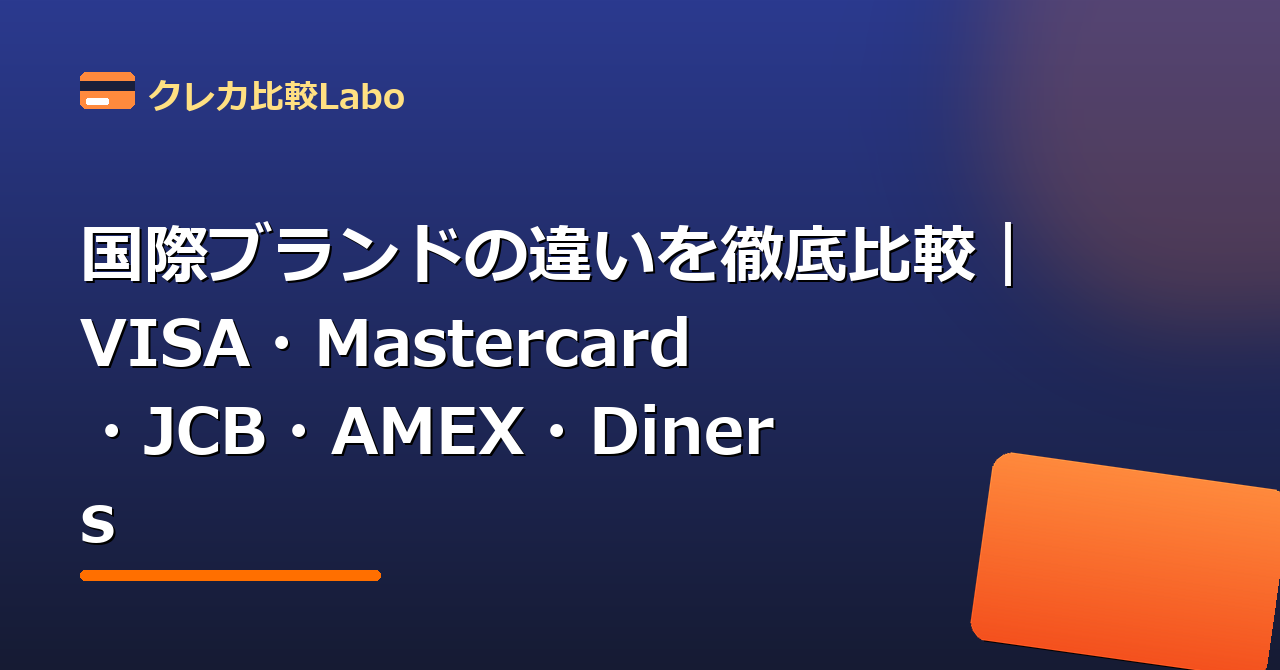
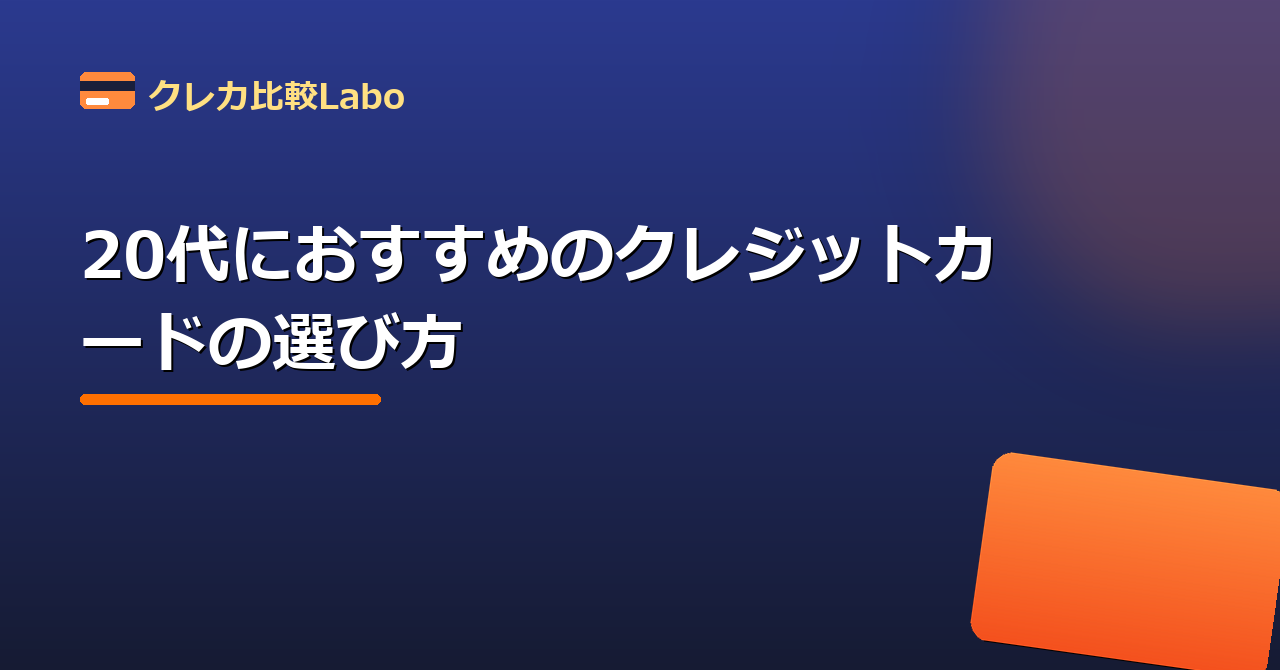
Boost near-ranking articles (nanaco/WAON, Google Pay, JCBW vs Rakuten) + refresh July campaign bonuses

Changed region(s): [[0.0625, 0.3284, 0.8125, 0.6866], [0.0625, 0.7463, 0.3125, 0.8657]]

diff --git a/articles/emoney-charge.html b/articles/emoney-charge.html
@@ -3,20 +3,20 @@
 <head>
   <meta charset="UTF-8">
   <meta name="viewport" content="width=device-width, initial-scale=1.0">
-  <meta name="description" content="nanacoやWAONへのクレジットカードチャージでポイントを貯める方法と対応カードを解説します。">
+  <meta name="description" content="nanaco・WAONへのクレジットカードチャージでポイントを貯める方法と、nanacoとWAONはどちらがお得かの比較を解説します。">
   <title>電子マネー（nanaco・WAON）チャージでポイントを貯める方法｜クレカ比較Labo</title>
   <link rel="canonical" href="https://creca-labo.com/articles/emoney-charge">
   <link rel="icon" href="../favicon.svg" type="image/svg+xml">
   <meta property="og:type" content="website">
   <meta property="og:title" content="電子マネー（nanaco・WAON）チャージでポイントを貯める方法｜クレカ比較Labo">
-  <meta property="og:description" content="nanacoやWAONへのクレジットカードチャージでポイントを貯める方法と対応カードを解説します。">
+  <meta property="og:description" content="nanaco・WAONへのクレジットカードチャージでポイントを貯める方法と、nanacoとWAONはどちらがお得かの比較を解説します。">
   <meta property="og:url" content="https://creca-labo.com/articles/emoney-charge">
   <meta property="og:image" content="https://creca-labo.com/images/ogp/emoney-charge.png">
   <meta property="og:site_name" content="クレカ比較Labo">
   <meta property="og:locale" content="ja_JP">
   <meta name="twitter:card" content="summary_large_image">
   <meta name="twitter:title" content="電子マネー（nanaco・WAON）チャージでポイントを貯める方法｜クレカ比較Labo">
-  <meta name="twitter:description" content="nanacoやWAONへのクレジットカードチャージでポイントを貯める方法と対応カードを解説します。">
+  <meta name="twitter:description" content="nanaco・WAONへのクレジットカードチャージでポイントを貯める方法と、nanacoとWAONはどちらがお得かの比較を解説します。">
   <meta name="twitter:image" content="https://creca-labo.com/images/ogp/emoney-charge.png">
   <link rel="preconnect" href="https://fonts.googleapis.com">
   <link rel="preconnect" href="https://fonts.gstatic.com" crossorigin>
@@ -105,6 +105,9 @@
         <li><a href="#sec-0">チャージでポイントが貯まる</a></li>
         <li><a href="#sec-1">対応カードを選ぶ</a></li>
         <li><a href="#sec-2">税金・公共料金の支払いにも</a></li>
+        <li><a href="#sec-3">nanacoとWAONはどちらがお得？【比較】</a></li>
+        <li><a href="#sec-4">チャージで得する「専用ペア」</a></li>
+        <li><a href="#sec-5">税金・公共料金ならnanaco、まとめ買いならWAON</a></li>
       </ol>
     </nav>
     <h2 id="sec-0">チャージでポイントが貯まる</h2>
@@ -113,6 +116,12 @@
     <p class="review-text">チャージでポイントが付くかどうかはカードによって異なります。nanacoならセブンカード系、WAONなら<a href="../cards/aeon-card.html" class="card-inline-link">イオンカード</a>系など、相性の良いカードを選びましょう。</p>
     <h2 id="sec-2">税金・公共料金の支払いにも</h2>
     <p class="review-text">nanacoは一部の税金や公共料金の支払いに使えます。クレカチャージしたnanacoで支払えば、現金では付かないポイントを貯められてお得です。</p>
+    <h2 id="sec-3">nanacoとWAONはどちらがお得？【比較】</h2>
+    <p class="review-text">結論は「よく行く店」で決まります。nanacoはセブン-イレブン・イトーヨーカドーなどセブン&アイ系、WAONはイオン・まいばすけっとなどイオン系で使いやすい電子マネーです。基本の還元率はどちらも0.5%（200円=1ポイント）で大差はないため、生活圏がどちらのグループに近いかで選ぶのが正解です。</p>
+    <h2 id="sec-4">チャージで得する「専用ペア」</h2>
+    <p class="review-text">nanacoはセブンカード・プラス、WAONはイオンカードセレクトからのチャージでポイントが貯まります。チャージ＋支払いの二重取りで実質1%前後に。他社カードからのチャージはポイント対象外のことが多いため、この専用ペアで使うのが基本です。</p>
+    <h2 id="sec-5">税金・公共料金ならnanaco、まとめ買いならWAON</h2>
+    <p class="review-text">nanacoはコンビニの収納代行（税金・公共料金の払込票）の支払いに使える点が独自の強みです。支払い自体にポイントは付きませんが、チャージ分は貯まるため現金払いより確実にお得。一方WAONはイオンの「お客さま感謝デー（毎月20日・30日は5%オフ）」が強力で、イオンでまとめ買いする人ほど得します。</p>
     <div class="article-card-links">
       <h2>この記事で紹介したカード</h2>
       <ul>
@@ -140,7 +149,7 @@
   </div>
 </article>
 <script type="application/ld+json">
-{"@context": "https://schema.org", "@type": "Article", "headline": "電子マネー（nanaco・WAON）チャージでポイントを貯める方法", "description": "nanacoやWAONへのクレジットカードチャージでポイントを貯める方法と対応カードを解説します。", "datePublished": "2026-06-09", "dateModified": "2026-06-09", "inLanguage": "ja", "image": "https://creca-labo.com/images/ogp/emoney-charge.png", "author": {"@type": "Person", "name": "クレカ比較Labo 編集責任者", "jobTitle": "編集責任者", "description": "金融業界で20年以上の実務経験を持つ編集者。クレジットカード会社での発行・審査・ポイント設計・加盟店開拓の実務を経て、一貫して金融分野に従事。", "knowsAbout": ["クレジットカード", "ポイント還元", "ポイ活", "新NISA", "つみたて投資", "家計管理"], "url": "https://creca-labo.com/about", "worksFor": {"@type": "Organization", "name": "クレカ比較Labo"}}, "publisher": {"@type": "Organization", "name": "クレカ比較Labo", "logo": {"@type": "ImageObject", "url": "https://creca-labo.com/ogp.png"}}, "mainEntityOfPage": "https://creca-labo.com/articles/emoney-charge"}
+{"@context": "https://schema.org", "@type": "Article", "headline": "電子マネー（nanaco・WAON）チャージでポイントを貯める方法", "description": "nanaco・WAONへのクレジットカードチャージでポイントを貯める方法と、nanacoとWAONはどちらがお得かの比較を解説します。", "datePublished": "2026-06-09", "dateModified": "2026-06-09", "inLanguage": "ja", "image": "https://creca-labo.com/images/ogp/emoney-charge.png", "author": {"@type": "Person", "name": "クレカ比較Labo 編集責任者", "jobTitle": "編集責任者", "description": "金融業界で20年以上の実務経験を持つ編集者。クレジットカード会社での発行・審査・ポイント設計・加盟店開拓の実務を経て、一貫して金融分野に従事。", "knowsAbout": ["クレジットカード", "ポイント還元", "ポイ活", "新NISA", "つみたて投資", "家計管理"], "url": "https://creca-labo.com/about", "worksFor": {"@type": "Organization", "name": "クレカ比較Labo"}}, "publisher": {"@type": "Organization", "name": "クレカ比較Labo", "logo": {"@type": "ImageObject", "url": "https://creca-labo.com/ogp.png"}}, "mainEntityOfPage": "https://creca-labo.com/articles/emoney-charge"}
 </script>
 <script type="application/ld+json">
 {"@context": "https://schema.org", "@type": "BreadcrumbList", "itemListElement": [{"@type": "ListItem", "position": 1, "name": "ホーム", "item": "https://creca-labo.com/"}, {"@type": "ListItem", "position": 2, "name": "記事一覧", "item": "https://creca-labo.com/articles"}, {"@type": "ListItem", "position": 3, "name": "電子マネー（nanaco・WAON）チャージでポイントを貯める方法", "item": "https://creca-labo.com/articles/emoney-charge"}]}

diff --git a/articles/google-pay-card.html b/articles/google-pay-card.html
@@ -103,6 +103,8 @@
         <li><a href="#sec-2">タッチ決済対応カードか確認しよう</a></li>
         <li><a href="#sec-3">セキュリティはむしろ強い</a></li>
         <li><a href="#sec-4">電子マネー・ポイントカードもまとめる</a></li>
+        <li><a href="#sec-5">Google Payでポイントを二重取りする方法</a></li>
+        <li><a href="#sec-6">Google Pay対応のおすすめカード</a></li>
       </ol>
     </nav>
     <h2 id="sec-0">Google ウォレットとは</h2>
@@ -115,6 +117,18 @@
     <p class="review-text">Google ウォレットの決済では、カード番号そのものではなく取引ごとのトークン(代替番号)が使われるため、番号漏えいリスクが低減されます。スマホの画面ロックが実質的なカードの鍵になるため、生体認証の設定は必須です。</p>
     <h2 id="sec-4">電子マネー・ポイントカードもまとめる</h2>
     <p class="review-text">SuicaなどもGoogle ウォレットに追加でき、ポイントカードのバーコードも登録可能です。「支払いも提示もスマホ1台」にすると、ポイントの取りこぼしが減り、財布も軽くなります。</p>
+    <h2 id="sec-5">Google Payでポイントを二重取りする方法</h2>
+    <p class="review-text">王道は「クレジットカードで電子マネーにチャージ→Google Payで支払う」流れです。チャージと支払いの両方でポイントが付く組み合わせなら二重取りに。さらに支払い時にポイントカードのバーコードも提示すれば三重取りも可能です。対応可否はカードと電子マネーの組み合わせごとに異なるため、事前に確認しておくと確実です。</p>
+    <h2 id="sec-6">Google Pay対応のおすすめカード</h2>
+    <p class="review-text"><a href="../cards/smbc-card.html" class="card-inline-link">三井住友カード(NL)</a>は、スマホのタッチ決済（Google Pay経由）が対象コンビニ・飲食店の高還元条件になっている代表例です。<a href="../cards/rakuten-card.html" class="card-inline-link">楽天カード</a>や<a href="../cards/jcb-card-w.html" class="card-inline-link">JCB CARD W</a>など主要カードもGoogle Payに対応済み。ただし対応する決済方式（Visaのタッチ決済／Mastercardコンタクトレス等）はカードによって異なるため、お持ちのカードの対応状況を公式サイトで確認しましょう。</p>
+    <div class="article-card-links">
+      <h2>この記事で紹介したカード</h2>
+      <ul>
+        <li><a href="../cards/smbc-card.html">三井住友カード（NL） の詳細を見る →</a></li>
+        <li><a href="../cards/rakuten-card.html">楽天カード の詳細を見る →</a></li>
+        <li><a href="../cards/jcb-card-w.html">JCBカードW の詳細を見る →</a></li>
+      </ul>
+    </div>
     <div class="related-articles">
       <h2>関連記事</h2>
       <a href="vs-smbc-recruit.html" class="related-link">📄 三井住友カード（NL）vs リクルートカード｜無料カード比較</a>

diff --git a/index.html b/index.html
@@ -174,7 +174,7 @@
         <div class="card-specs">
           <div class="spec"><span class="spec-label">年会費</span><span class="spec-value highlight">永年無料</span></div>
           <div class="spec"><span class="spec-label">還元率</span><span class="spec-value highlight">0.5%〜7.0%</span></div>
-          <div class="spec"><span class="spec-label">入会特典</span><span class="spec-value">最大8,000円相当</span></div>
+          <div class="spec"><span class="spec-label">入会特典</span><span class="spec-value">最大7,000円分</span></div>
           <div class="spec"><span class="spec-label">ブランド</span><span class="spec-value">VISA / Master</span></div>
         </div>
         <div class="card-merits">
@@ -344,7 +344,7 @@
         <div class="card-specs">
           <div class="spec"><span class="spec-label">年会費</span><span class="spec-value highlight">永年無料</span></div>
           <div class="spec"><span class="spec-label">還元率</span><span class="spec-value highlight">0.5%〜7.0%</span></div>
-          <div class="spec"><span class="spec-label">入会特典</span><span class="spec-value">最大8,000円相当</span></div>
+          <div class="spec"><span class="spec-label">入会特典</span><span class="spec-value">最大7,000円分</span></div>
           <div class="spec"><span class="spec-label">ブランド</span><span class="spec-value">VISA / Master</span></div>
         </div>
         <div class="card-merits">
@@ -464,7 +464,7 @@
         <div class="card-specs">
           <div class="spec"><span class="spec-label">年会費</span><span class="spec-value highlight">永年無料</span></div>
           <div class="spec"><span class="spec-label">還元率</span><span class="spec-value highlight">0.5%〜15%</span></div>
-          <div class="spec"><span class="spec-label">入会特典</span><span class="spec-value">最大10,000円相当</span></div>
+          <div class="spec"><span class="spec-label">入会特典</span><span class="spec-value">最大15,000円相当</span></div>
           <div class="spec"><span class="spec-label">ブランド</span><span class="spec-value">VISA / Master / JCB / AMEX</span></div>
         </div>
         <div class="card-merits">
@@ -642,7 +642,7 @@
             <td><a href="cards/smbc-card.html"><strong>三井住友カード（NL）</strong></a></td>
             <td>無料</td>
             <td><strong>0.5%〜7.0%</strong></td>
-            <td>最大8,000円相当</td>
+            <td>最大7,000円分</td>
             <td>VISA/Master</td>
             <td>コンビニで7%還元</td>
             <td><a href="https://www.smbc-card.com/" target="_blank" rel="nofollow sponsored noopener" class="table-btn">申込む</a></td>
@@ -678,7 +678,7 @@
             <td><a href="cards/mufg-card.html"><strong>三菱UFJカード</strong></a></td>
             <td>無料</td>
             <td><strong>0.5%〜15%</strong></td>
-            <td>最大10,000円相当</td>
+            <td>最大15,000円相当</td>
             <td>VISA/Master/JCB/AMEX</td>
             <td>対象店舗で最大15%還元</td>
             <td><a href="https://www.cr.mufg.jp/" target="_blank" rel="nofollow sponsored noopener" class="table-btn">申込む</a></td>
@@ -687,7 +687,7 @@
             <td><a href="cards/recruit-card.html"><strong>リクルートカード</strong></a></td>
             <td>無料</td>
             <td><strong>1.2%〜</strong></td>
-            <td>最大6,000円分</td>
+            <td>最大8,000円分(JCB)</td>
             <td>VISA/Master/JCB</td>
             <td>常時還元率1.2%</td>
             <td><a href="https://recruit-card.jp/" target="_blank" rel="nofollow sponsored noopener" class="table-btn">申込む</a></td>
@@ -696,7 +696,7 @@
             <td><a href="cards/jcb-card-w.html"><strong>JCBカードW</strong></a></td>
             <td>無料</td>
             <td><strong>1.0%〜5.5%</strong></td>
-            <td>最大10,000円相当</td>
+            <td>最大24,000円相当</td>
             <td>JCB</td>
             <td>39歳以下限定・高還元</td>
             <td><a href="https://www.jcb.co.jp/" target="_blank" rel="nofollow sponsored noopener" class="table-btn">申込む</a></td>

diff --git a/campaign.html b/campaign.html
@@ -101,7 +101,7 @@
         <tbody>
           <tr>
             <td><a href="cards/smbc-card.html"><strong>三井住友カード（NL）</strong></a></td>
-            <td><strong class="campaign-bonus">最大8,000円相当</strong></td>
+            <td><strong class="campaign-bonus">最大7,000円分</strong></td>
             <td>無料</td>
             <td><strong>0.5%〜7.0%</strong></td>
             <td><a href="https://www.smbc-card.com/" target="_blank" rel="nofollow sponsored noopener" class="table-btn">申込む</a></td>
@@ -115,21 +115,21 @@
           </tr>
           <tr>
             <td><a href="cards/mufg-card.html"><strong>三菱UFJカード</strong></a></td>
-            <td><strong class="campaign-bonus">最大10,000円相当</strong></td>
+            <td><strong class="campaign-bonus">最大15,000円相当</strong></td>
             <td>無料</td>
             <td><strong>0.5%〜15%</strong></td>
             <td><a href="https://www.cr.mufg.jp/" target="_blank" rel="nofollow sponsored noopener" class="table-btn">申込む</a></td>
           </tr>
           <tr>
             <td><a href="cards/recruit-card.html"><strong>リクルートカード</strong></a></td>
-            <td><strong class="campaign-bonus">最大6,000円分</strong></td>
+            <td><strong class="campaign-bonus">最大8,000円分(JCB)</strong></td>
             <td>無料</td>
             <td><strong>1.2%〜</strong></td>
             <td><a href="https://recruit-card.jp/" target="_blank" rel="nofollow sponsored noopener" class="table-btn">申込む</a></td>
           </tr>
           <tr>
             <td><a href="cards/jcb-card-w.html"><strong>JCBカードW</strong></a></td>
-            <td><strong class="campaign-bonus">最大10,000円相当</strong></td>
+            <td><strong class="campaign-bonus">最大24,000円相当</strong></td>
             <td>無料</td>
             <td><strong>1.0%〜5.5%</strong></td>
             <td><a href="https://www.jcb.co.jp/" target="_blank" rel="nofollow sponsored noopener" class="table-btn">申込む</a></td>

diff --git a/purpose/cashback.html b/purpose/cashback.html
@@ -109,7 +109,7 @@
         <div class="card-specs">
           <div class="spec"><span class="spec-label">年会費</span><span class="spec-value highlight">永年無料</span></div>
           <div class="spec"><span class="spec-label">還元率</span><span class="spec-value highlight">0.5%〜7.0%</span></div>
-          <div class="spec"><span class="spec-label">入会特典</span><span class="spec-value">最大8,000円相当</span></div>
+          <div class="spec"><span class="spec-label">入会特典</span><span class="spec-value">最大7,000円分</span></div>
           <div class="spec"><span class="spec-label">ブランド</span><span class="spec-value">VISA / Master</span></div>
         </div>
         <div class="card-merits">
@@ -139,7 +139,7 @@
         <div class="card-specs">
           <div class="spec"><span class="spec-label">年会費</span><span class="spec-value highlight">永年無料</span></div>
           <div class="spec"><span class="spec-label">還元率</span><span class="spec-value highlight">1.2%〜</span></div>
-          <div class="spec"><span class="spec-label">入会特典</span><span class="spec-value">最大6,000円分</span></div>
+          <div class="spec"><span class="spec-label">入会特典</span><span class="spec-value">最大8,000円分(JCB)</span></div>
           <div class="spec"><span class="spec-label">ブランド</span><span class="spec-value">VISA / Master / JCB</span></div>
         </div>
         <div class="card-merits">
@@ -169,7 +169,7 @@
         <div class="card-specs">
           <div class="spec"><span class="spec-label">年会費</span><span class="spec-value highlight">永年無料</span></div>
           <div class="spec"><span class="spec-label">還元率</span><span class="spec-value highlight">0.5%〜15%</span></div>
-          <div class="spec"><span class="spec-label">入会特典</span><span class="spec-value">最大10,000円相当</span></div>
+          <div class="spec"><span class="spec-label">入会特典</span><span class="spec-value">最大15,000円相当</span></div>
           <div class="spec"><span class="spec-label">ブランド</span><span class="spec-value">VISA / Master / JCB / AMEX</span></div>
         </div>
         <div class="card-merits">

diff --git a/purpose/daily.html b/purpose/daily.html
@@ -109,7 +109,7 @@
         <div class="card-specs">
           <div class="spec"><span class="spec-label">年会費</span><span class="spec-value highlight">永年無料</span></div>
           <div class="spec"><span class="spec-label">還元率</span><span class="spec-value highlight">0.5%〜7.0%</span></div>
-          <div class="spec"><span class="spec-label">入会特典</span><span class="spec-value">最大8,000円相当</span></div>
+          <div class="spec"><span class="spec-label">入会特典</span><span class="spec-value">最大7,000円分</span></div>
           <div class="spec"><span class="spec-label">ブランド</span><span class="spec-value">VISA / Master</span></div>
         </div>
         <div class="card-merits">
@@ -169,7 +169,7 @@
         <div class="card-specs">
           <div class="spec"><span class="spec-label">年会費</span><span class="spec-value highlight">永年無料</span></div>
           <div class="spec"><span class="spec-label">還元率</span><span class="spec-value highlight">0.5%〜15%</span></div>
-          <div class="spec"><span class="spec-label">入会特典</span><span class="spec-value">最大10,000円相当</span></div>
+          <div class="spec"><span class="spec-label">入会特典</span><span class="spec-value">最大15,000円相当</span></div>
           <div class="spec"><span class="spec-label">ブランド</span><span class="spec-value">VISA / Master / JCB / AMEX</span></div>
         </div>
         <div class="card-merits">

diff --git a/purpose/instant.html b/purpose/instant.html
@@ -139,7 +139,7 @@
         <div class="card-specs">
           <div class="spec"><span class="spec-label">年会費</span><span class="spec-value highlight">永年無料</span></div>
           <div class="spec"><span class="spec-label">還元率</span><span class="spec-value highlight">0.5%〜7.0%</span></div>
-          <div class="spec"><span class="spec-label">入会特典</span><span class="spec-value">最大8,000円相当</span></div>
+          <div class="spec"><span class="spec-label">入会特典</span><span class="spec-value">最大7,000円分</span></div>
           <div class="spec"><span class="spec-label">ブランド</span><span class="spec-value">VISA / Master</span></div>
         </div>
         <div class="card-merits">
@@ -199,7 +199,7 @@
         <div class="card-specs">
           <div class="spec"><span class="spec-label">年会費</span><span class="spec-value highlight">永年無料</span></div>
           <div class="spec"><span class="spec-label">還元率</span><span class="spec-value highlight">1.0%〜5.5%</span></div>
-          <div class="spec"><span class="spec-label">入会特典</span><span class="spec-value">最大10,000円相当</span></div>
+          <div class="spec"><span class="spec-label">入会特典</span><span class="spec-value">最大24,000円相当</span></div>
           <div class="spec"><span class="spec-label">ブランド</span><span class="spec-value">JCB</span></div>
         </div>
         <div class="card-merits">

diff --git a/purpose/nenkaihi-free.html b/purpose/nenkaihi-free.html
@@ -109,7 +109,7 @@
         <div class="card-specs">
           <div class="spec"><span class="spec-label">年会費</span><span class="spec-value highlight">永年無料</span></div>
           <div class="spec"><span class="spec-label">還元率</span><span class="spec-value highlight">0.5%〜7.0%</span></div>
-          <div class="spec"><span class="spec-label">入会特典</span><span class="spec-value">最大8,000円相当</span></div>
+          <div class="spec"><span class="spec-label">入会特典</span><span class="spec-value">最大7,000円分</span></div>
           <div class="spec"><span class="spec-label">ブランド</span><span class="spec-value">VISA / Master</span></div>
         </div>
         <div class="card-merits">
@@ -169,7 +169,7 @@
         <div class="card-specs">
           <div class="spec"><span class="spec-label">年会費</span><span class="spec-value highlight">永年無料</span></div>
           <div class="spec"><span class="spec-label">還元率</span><span class="spec-value highlight">1.2%〜</span></div>
-          <div class="spec"><span class="spec-label">入会特典</span><span class="spec-value">最大6,000円分</span></div>
+          <div class="spec"><span class="spec-label">入会特典</span><span class="spec-value">最大8,000円分(JCB)</span></div>
           <div class="spec"><span class="spec-label">ブランド</span><span class="spec-value">VISA / Master / JCB</span></div>
         </div>
         <div class="card-merits">

diff --git a/purpose/shopping.html b/purpose/shopping.html
@@ -139,7 +139,7 @@
         <div class="card-specs">
           <div class="spec"><span class="spec-label">年会費</span><span class="spec-value highlight">永年無料</span></div>
           <div class="spec"><span class="spec-label">還元率</span><span class="spec-value highlight">1.2%〜</span></div>
-          <div class="spec"><span class="spec-label">入会特典</span><span class="spec-value">最大6,000円分</span></div>
+          <div class="spec"><span class="spec-label">入会特典</span><span class="spec-value">最大8,000円分(JCB)</span></div>
           <div class="spec"><span class="spec-label">ブランド</span><span class="spec-value">VISA / Master / JCB</span></div>
         </div>
         <div class="card-merits">
@@ -169,7 +169,7 @@
         <div class="card-specs">
           <div class="spec"><span class="spec-label">年会費</span><span class="spec-value highlight">永年無料</span></div>
           <div class="spec"><span class="spec-label">還元率</span><span class="spec-value highlight">1.0%〜5.5%</span></div>
-          <div class="spec"><span class="spec-label">入会特典</span><span class="spec-value">最大10,000円相当</span></div>
+          <div class="spec"><span class="spec-label">入会特典</span><span class="spec-value">最大24,000円相当</span></div>
           <div class="spec"><span class="spec-label">ブランド</span><span class="spec-value">JCB</span></div>
         </div>
         <div class="card-merits">

diff --git a/articles/vs-rakuten-jcbw.html b/articles/vs-rakuten-jcbw.html
@@ -107,6 +107,7 @@
         <li><a href="#sec-2">入会条件の違い（重要）</a></li>
         <li><a href="#sec-3">ポイントの使い道</a></li>
         <li><a href="#sec-4">まとめ</a></li>
+        <li><a href="#sec-5">「2枚持ち」という選択肢</a></li>
       </ol>
     </nav>
     <h2 id="sec-0">結論：年齢と使う店で決まる</h2>
@@ -119,6 +120,8 @@
     <p class="review-text">楽天ポイントは出口が非常に広く初心者向き。JCBのOki Dokiポイントはギフト・他社ポイント・支払い充当などに交換できます。普段使いの利便性では楽天ポイントに分があります。</p>
     <h2 id="sec-4">まとめ</h2>
     <p class="review-text">39歳以下なら、高還元のJCB CARD Wをこの機会に作りつつ、楽天市場用に楽天カードも持つのが賢い組み合わせです。</p>
+    <h2 id="sec-5">「2枚持ち」という選択肢</h2>
+    <p class="review-text">実は「どちらか1枚」ではなく2枚持ちも有力です。楽天市場では楽天カード、AmazonやスターバックスなどJCBの特約店ではJCB CARD Wと使い分ければ、それぞれの得意分野の還元率だけを取れます。どちらも年会費無料なので維持コストはゼロ。39歳以下のうちにJCB CARD Wを作っておき、楽天カードと併用するのが「いいとこ取り」の答えです。</p>
     <div class="article-card-links">
       <h2>この記事で紹介したカード</h2>
       <ul>

diff --git a/articles.html b/articles.html
@@ -354,7 +354,7 @@
       <a href="articles/emoney-charge.html" class="article-card">
         <div class="article-meta"><span class="article-tag">記事</span><span class="article-card-date">📅 2026年6月9日 公開</span></div>
         <h3>電子マネー（nanaco・WAON）チャージでポイントを貯める方法</h3>
-        <p>nanacoやWAONへのクレジットカードチャージでポイントを貯める方法と対応カードを解説します。</p>
+        <p>nanaco・WAONへのクレジットカードチャージでポイントを貯める方法と、nanacoとWAONはどちらがお得かの比較を解説します。</p>
         <span class="read-more">続きを読む →</span>
       </a>
       <a href="articles/statement.html" class="article-card">

diff --git a/cards/jcb-card-w.html b/cards/jcb-card-w.html
@@ -103,7 +103,7 @@
     <div class="card-specs detail-specs">
       <div class="spec"><span class="spec-label">年会費</span><span class="spec-value highlight">永年無料</span></div>
       <div class="spec"><span class="spec-label">還元率</span><span class="spec-value highlight">1.0%〜5.5%</span></div>
-      <div class="spec"><span class="spec-label">入会特典</span><span class="spec-value">最大10,000円相当</span></div>
+      <div class="spec"><span class="spec-label">入会特典</span><span class="spec-value">最大24,000円相当</span></div>
       <div class="spec"><span class="spec-label">ブランド</span><span class="spec-value">JCB</span></div>
     </div>
 